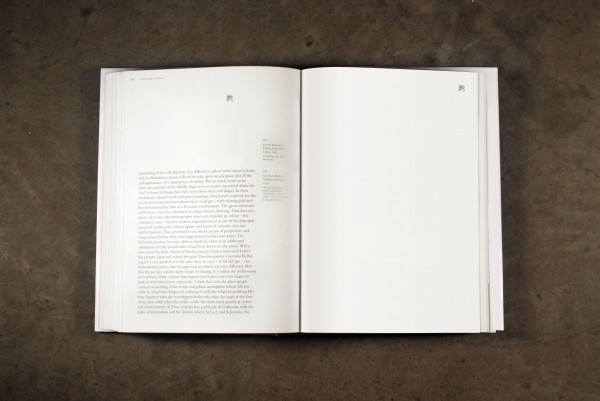
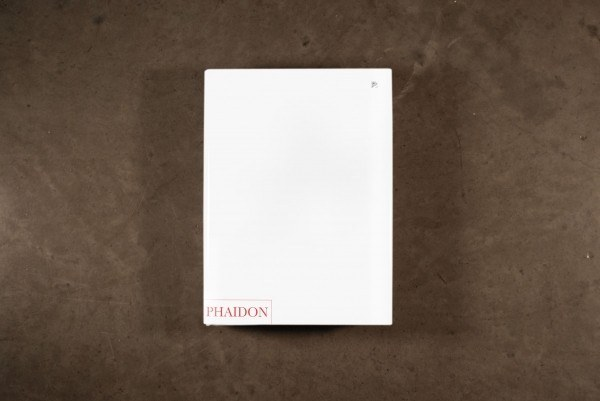
Set The Story of Art's cover from the artwork instead of the snapshot
The plate was a 190px crop out of a 600px photograph, blown up: a grey
smudge where the imprint should be. It is the print file now, so the
Phaidon box and the broken-image icon are as sharp as the wall can show
them.

Finding the front cover took a fit rather than a crop. The file is the
whole jacket, 28.5 x 14in, and its page is taller than the book, so no
edge of the artwork marks the cover. What does mark it is the two things
printed on the cover: put the icon and the Phaidon box where the
photograph has them and the panel falls out — 7.7 x 10.7in, aspect
0.72 against the photograph's 0.74. Its left and right edges land on the
spine and the flap fold, which were worked out separately from the
symmetry of the flaps, so the two agree.

Starting a hair right of the spine text, since GOMBRICH is set across
the fold and a straight crop brought the tail of the H onto the cover.

The jacket flat joins the sheet behind the cover, and the three
photographs of the object move down behind both. Those stay 600px —
they are photographs, and no larger ones exist here. If the interior PDF
turns up I can take pages from it the way Cable and Endless
Opportunities now have them.

Claude-Session: https://claude.ai/code/session_019uCume6DABHWMMWpYSpGV8

diff --git a/_projects/2010-07-01-the-story-of-art.md b/_projects/2010-07-01-the-story-of-art.md
@@ -6,12 +6,12 @@ category: book
 image_path: "/images/the-story-of-art/jhuff-the-story-of-art-"
 description: "This project is a conflation of a common Internet error and a seminal book of the history of art that relies heavily on images. All the images in E. H. Gombrich's The Story of Art are replaced with 'broken image link' icons that typically appear on outdated web sites."
 plate: "/images/plates/the-story-of-art.webp"
-plate_w: 760
-plate_h: 1024
+plate_w: 1100
+plate_h: 1528
 section: studio
 dark: true
 ---
-{% for num in (1..3) %}
+{% for num in (1..5) %}
 <div class="row pj-shot">
 <img src="{{ page.image_path }}{{ num }}.jpg" alt="{{ page.title }}" loading="lazy" decoding="async">
 </div>
